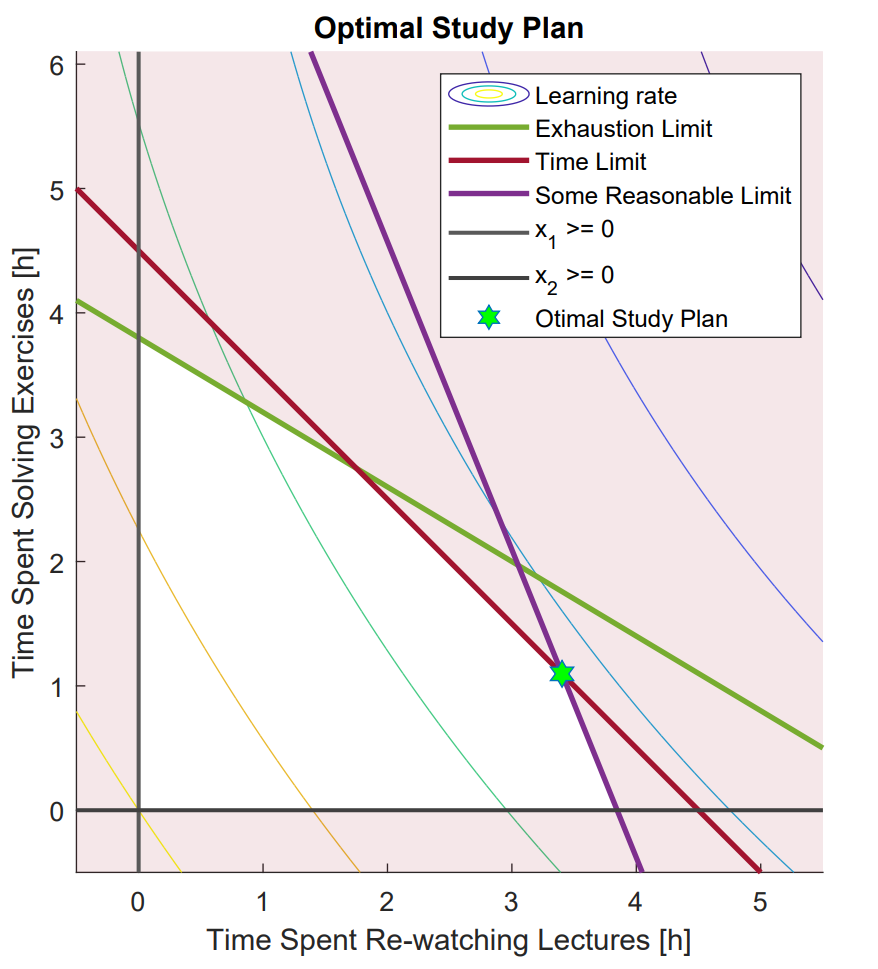
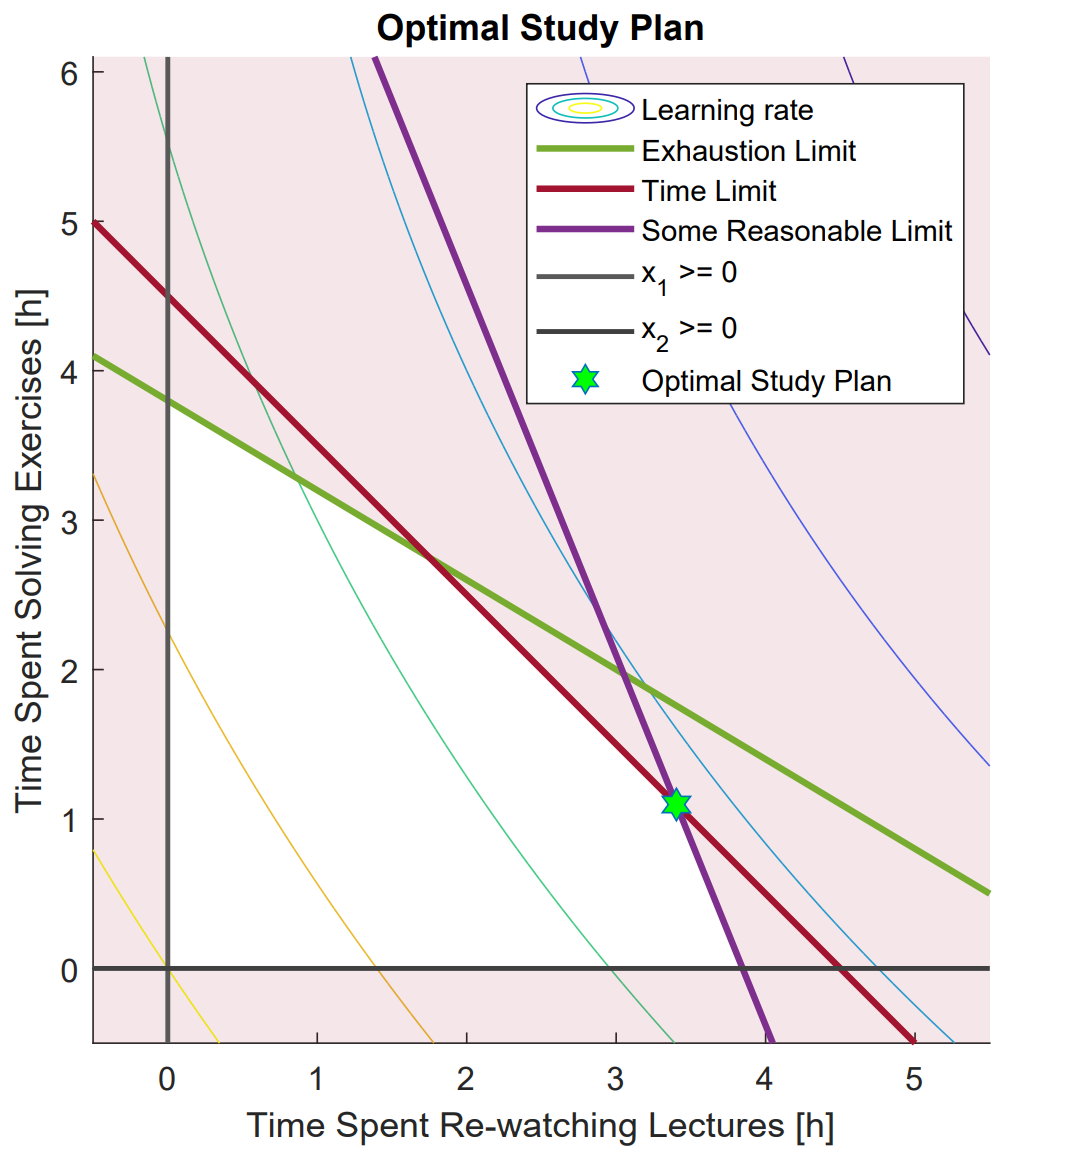
fixing Images

diff --git a/Example 2/Eample_2.m b/Example 2/Eample_2.m
@@ -76,7 +76,7 @@ title( myQP.ax,'Optimal Study Plan')
 
 
 myQP.OptimalPoint.MarkerFaceColor = 'g';
-myQP.OptimalPoint.DisplayName = 'Otimal Study Plan';
+myQP.OptimalPoint.DisplayName = 'Optimal Study Plan';
 
 % plot:
 myQP.plot()
